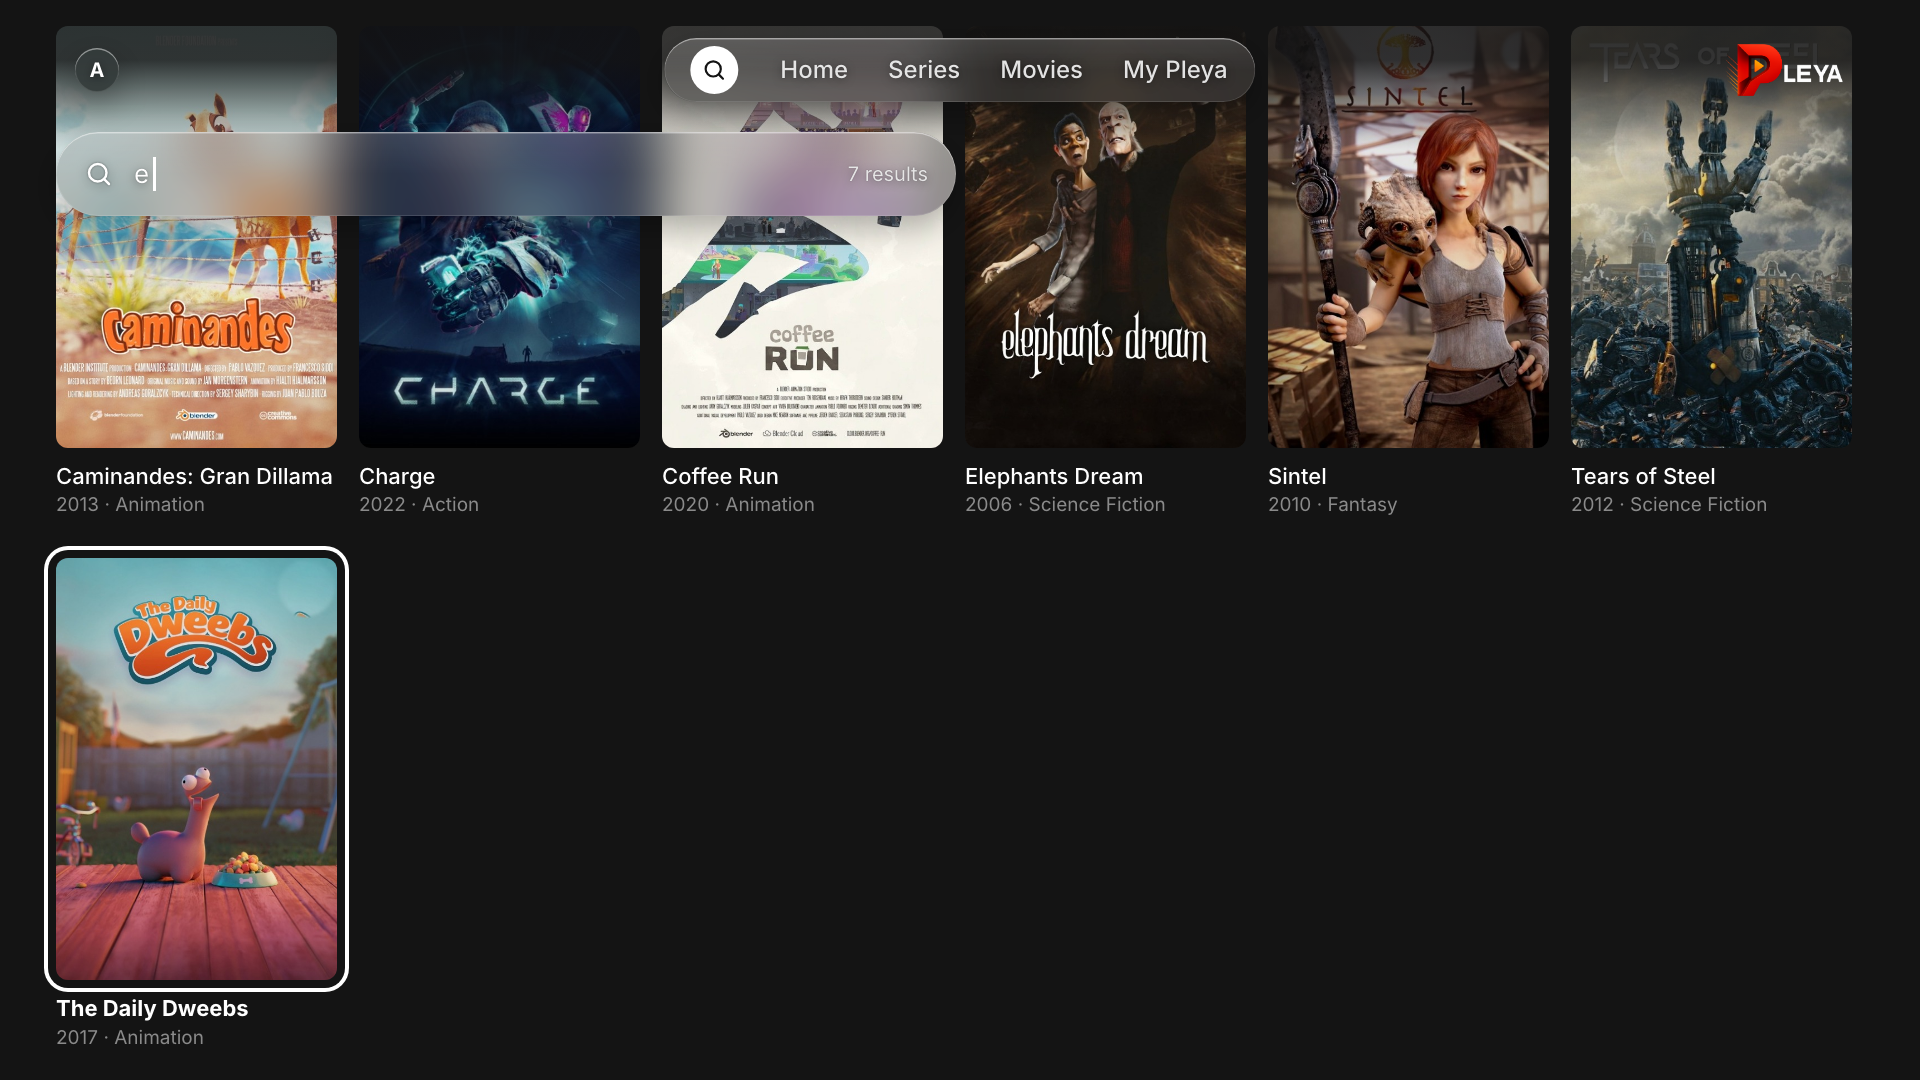
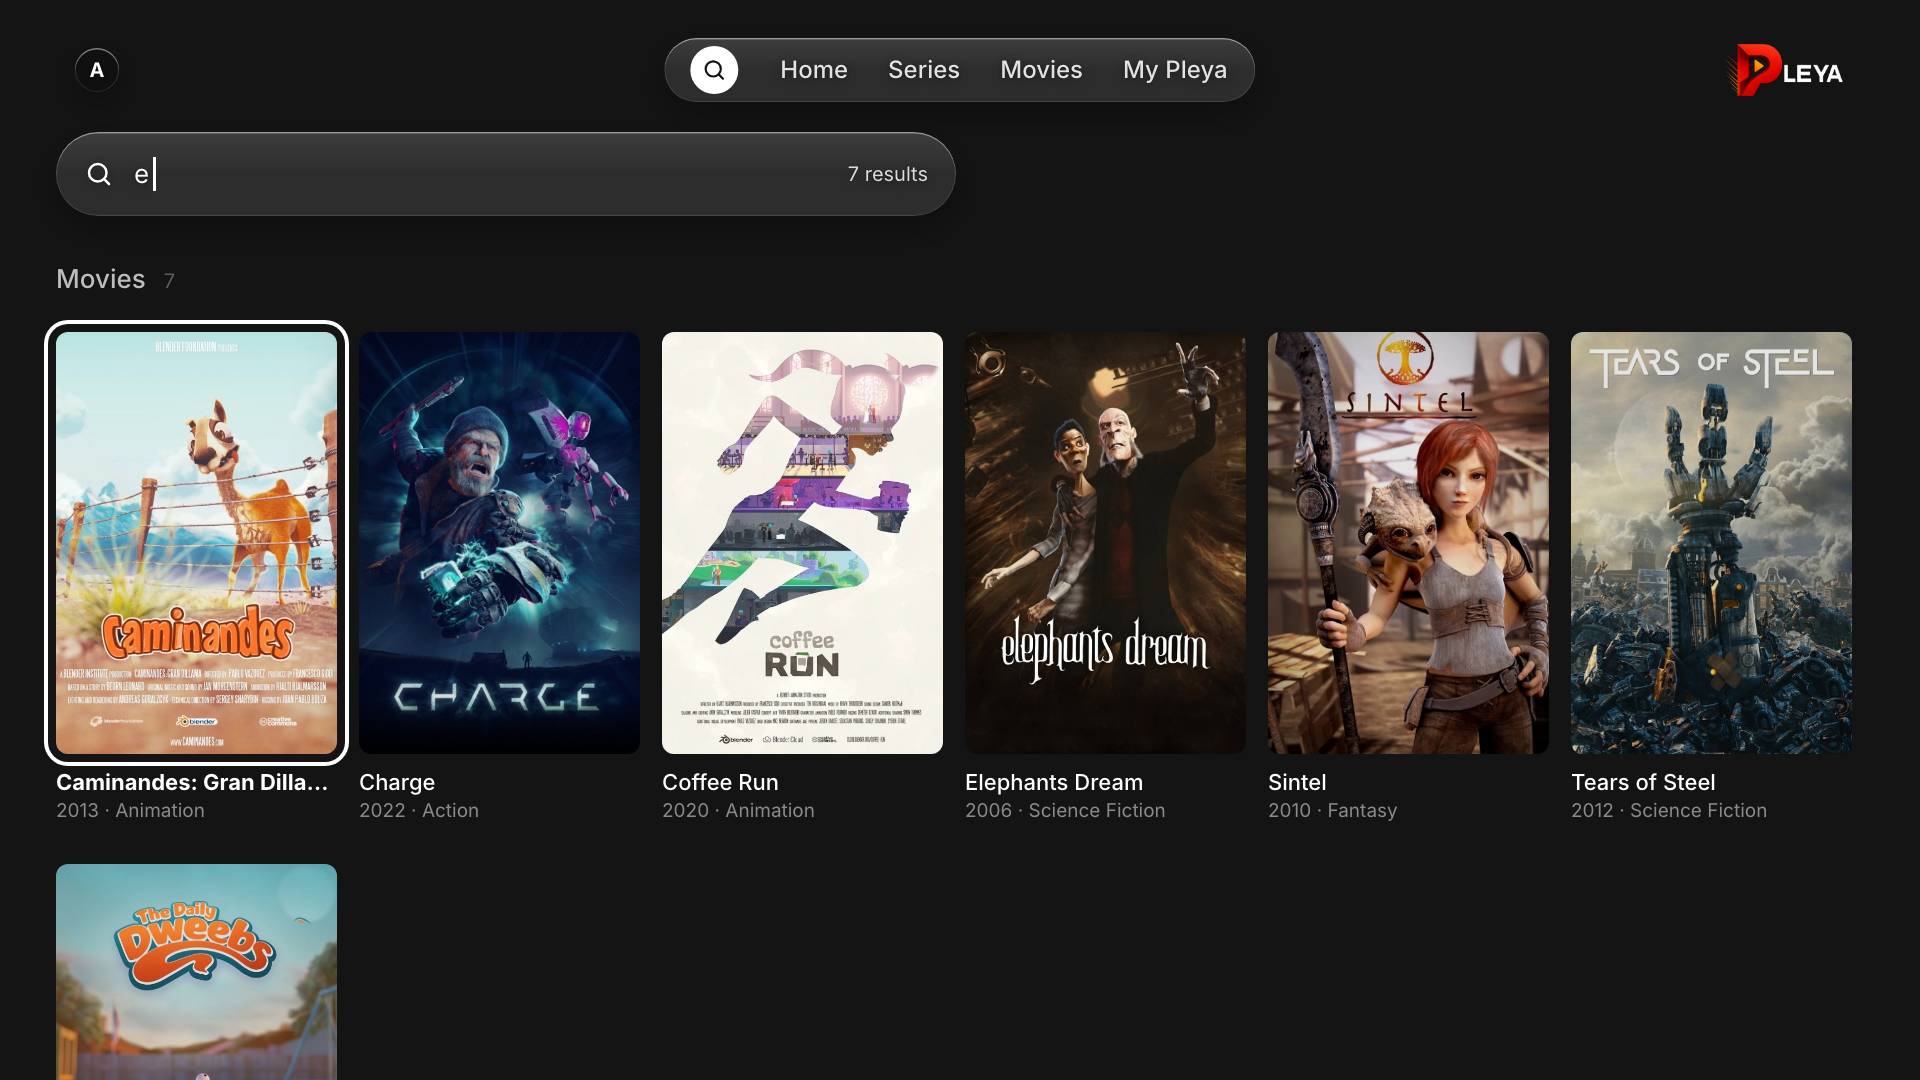
design: Liquid Glass goedgekeurd (DEC-122), zoekscherm in ruststand, contrast als eis

diff --git a/docs/assets/tvos-unified/src/pages/LG-06-zoeken.html b/docs/assets/tvos-unified/src/pages/LG-06-zoeken.html
@@ -1,7 +1,8 @@
 <link rel="stylesheet" href="../../../liquid-glass/src/tv-glass.css">
 <style>
-/* mockup 36 B (resultaten), een stap naar beneden gescrold: de eerste rij schuift onder
-   de topnav en de zoekpil door, zodat het glas iets heeft om te tonen */
+/* mockup 36 B (resultaten) in ruststand: de zoekpil onder de topnav, de resultaten
+   eronder. Het glas ligt hier op de donkere achtergrond; pas bij scrollen schuiven
+   posters eronderdoor. */
 .edge { position: absolute; left: 0; right: 0; top: 0; height: 150px; background: linear-gradient(180deg, rgba(20,20,20,.85) 40%, rgba(20,20,20,0)); z-index: 1; }
 .topnav { z-index: 2; }
 .page { padding: 0 var(--grid-inset); }
@@ -10,7 +11,7 @@
 .sf .q { font-size: 26px; color: var(--ink); }
 .sf .caret { width: 3px; height: 34px; background: var(--ink); margin-left: -16px; }
 .sf .n { margin-left: auto; font-size: 20px; color: rgba(255,255,255,.85); }
-.scroll { position: absolute; left: var(--grid-inset); top: -44px; }
+.scroll { position: absolute; left: var(--grid-inset); top: 262px; }
 .topnav .cluster.tvglass .search.on { width: 48px; height: 48px; border-radius: 999px; background: var(--ink); color: var(--bg); justify-content: center; align-items: center; margin-right: 22px; filter: none; }
 .topnav .cluster.tvglass .search.on .ic { filter: none; }
 .group-label { display: flex; align-items: baseline; gap: 18px; margin: 0 0 var(--focus-headroom); }
@@ -30,12 +31,12 @@
 <div class="scroll">
   <div class="group-label">Movies<span class="n">7</span></div>
   <div class="grid6">
-    <div class="card"><div class="art"><img src="{{art:caminandes-poster}}"></div><div class="t">Caminandes: Gran Dillama</div><div class="s">2013 · Animation</div></div>
+    <div class="card"><div class="art focus"><img src="{{art:caminandes-poster}}"></div><div class="t" style="font-weight:700">Caminandes: Gran Dillama</div><div class="s">2013 · Animation</div></div>
     <div class="card"><div class="art"><img src="{{art:charge-poster}}"></div><div class="t">Charge</div><div class="s">2022 · Action</div></div>
     <div class="card"><div class="art"><img src="{{art:coffeerun-poster}}"></div><div class="t">Coffee Run</div><div class="s">2020 · Animation</div></div>
     <div class="card"><div class="art"><img src="{{art:elephants-poster}}"></div><div class="t">Elephants Dream</div><div class="s">2006 · Science Fiction</div></div>
     <div class="card"><div class="art"><img src="{{art:sintel-poster}}"></div><div class="t">Sintel</div><div class="s">2010 · Fantasy</div></div>
     <div class="card"><div class="art"><img src="{{art:tears-poster}}"></div><div class="t">Tears of Steel</div><div class="s">2012 · Science Fiction</div></div>
-    <div class="card"><div class="art focus"><img src="{{art:dweebs-poster}}"></div><div class="t" style="font-weight:700">The Daily Dweebs</div><div class="s">2017 · Animation</div></div>
+    <div class="card"><div class="art"><img src="{{art:dweebs-poster}}"></div><div class="t">The Daily Dweebs</div><div class="s">2017 · Animation</div></div>
   </div>
 </div>

diff --git a/docs/liquid-glass-mockups-2026-09.md b/docs/liquid-glass-mockups-2026-09.md
@@ -1,8 +1,8 @@
 # Liquid Glass-mockups, september 2026
 
-**Status: voorstel.** Deze set laat zien hoe Pleya eruitziet als de oppervlakken Liquid Glass
-worden, op iPhone en Apple TV. Er is niets over besloten; een DEC-nummer volgt pas bij
-goedkeuring. Layout, typografie, kleuren en maten komen uit de iOS-northstar
+**Status: goedgekeurd op 24 september 2026 ([DEC-122](DECISIONS.md#dec-122)).** Deze set laat
+zien hoe Pleya eruitziet als de oppervlakken Liquid Glass worden, op iPhone en Apple TV. Michel
+keurde de richting goed met één eis: goed contrast, zie de sectie Contrast hieronder. Layout, typografie, kleuren en maten komen uit de iOS-northstar
 (`docs/assets/ios-unified/northstar/`) en de goedgekeurde tvOS-mockups 30, 33 en 36. Alleen
 tabbalk, knoppen, zoekveld en spelerbediening zijn veranderd.
 
@@ -18,7 +18,7 @@ demoserver, geknipt uit de App Store-screenshots van 24 september 2026.
 | `LG-03-speler.png` | 2622×1206 | iPhone speler liggend. Terugspoelen, pauze en vooruitspoelen zijn glazen cirkels, tijdlijn en werkbalk zitten in één glazen plaat, rechtsboven een glazen capsule met cast, AirPlay en het menu. Lichte scène onder het glas. |
 | `LG-04-home.png` | 1920×1080 | Apple TV Home. De topbalk is een capsule van nepglas over de hero, focus op Home (witte pil, licht vergroot). |
 | `LG-05-spelerpaneel.png` | 1920×1080 | Apple TV spelerbalk, stand I van mockup 33 (bediening zichtbaar). Tijdlijn en knoppen staan op één nepglasplaat boven een lichte scène. |
-| `LG-06-zoeken.png` | 1920×1080 | Apple TV zoeken, mockup 36 B. De zoekpil is nepglas; de resultaten zijn een stuk omhoog gescrold zodat de lichte posters van Caminandes en Coffee Run onder pil en topbalk liggen. |
+| `LG-06-zoeken.png` | 1920×1080 | Apple TV zoeken, mockup 36 B. De zoekpil is nepglas, in ruststand: onder de topbalk, met de resultaten eronder en de focus op de eerste kaart. Pas bij scrollen schuiven posters onder pil en topbalk door. |
 | `LG-07-iphone-vergelijking.png` | 2593×2826 | Links Home van vandaag, rechts LG-01. |
 | `LG-08-appletv-vergelijking.png` | 3960×1210 | Links Home van vandaag, rechts LG-04. |
 
@@ -38,6 +38,21 @@ Op Apple TV bestaat dat pakket niet, dus daar is het glas een `BackdropFilter`: 
 verzadiging, iets dimmen, een witte tint en een lichtlijn bovenlangs. Geen rand die breekt. In
 LG-04 en LG-06 is het verschil met een donkere balk goed te zien, in LG-05 minder, omdat de plaat
 daar groot is en de scène achter de knoppen al rustig is.
+
+## Contrast
+
+Glas mag de leesbaarheid niet kosten. Dit is een eis bij de goedkeuring, geen wens.
+
+- Tekst en iconen op glas halen minstens 4,5:1 tegen wat eronder ligt, gemeten op de lichtste
+  scène die daar kan staan (Big Buck Bunny, Coffee Run). Wit op glas krijgt daarom altijd de
+  tekstschaduw uit de recepten hierboven; zonder schaduw zakt wit op de lichte Bunny-scène onder 3:1.
+- Het glas dempt wat erdoor schemert (`--lg-dim`) en zet een lichte donkere tint in de plaat zodra
+  de achtergrond licht is. In Flutter is dat een luminantiemeting van het beeld onder de plaat, of
+  een vaste tint van 22 tot 28 procent zwart als meten te duur is.
+- De focusring op Apple TV blijft wit met de bestaande ring-gap; op een witte pil (Home in LG-04)
+  vervalt de ring en telt de schaal plus schaduw als focus. Dat is de enige plek waar dat mag.
+- Het rode accent (voortgang, actieve tab) blijft dekkend; het gaat nooit door het glas heen.
+- Controle: elk scherm met glas krijgt in Pleya Verify een contrastmeting op de lichtste fixture.
 
 ## De CSS-recepten
 

diff --git a/docs/DECISIONS.md b/docs/DECISIONS.md
@@ -2871,3 +2871,28 @@ MCP-tests en docs die hem als voorbeeld noemen gaan naar het nieuwe scenario.
 
 **Consequences:** De false-PASS-matrix van DEC-081 blijft geldig; die hangt aan de runner, niet aan
 het scenario. Een nieuwe sabotageronde draait tegen de `active`-state van de navigatiepillen.
+
+## DEC-122: Liquid Glass wordt de oppervlaktestijl op iPhone en Apple TV
+
+**Date:** 2026-09-24
+**Status:** accepted
+
+**Context:** Apple's Liquid Glass is de systeemstijl van iOS 26 en tvOS 26. Flutter tekent hem niet
+zelf (flutter/flutter#170310). Het pakket `liquid_glass_renderer` levert op Impeller echt glas met
+breking; op tvOS bestaat dat niet en is alleen blur met tint en lichtlijn haalbaar. De acht
+mockups in `docs/assets/liquid-glass/mockups-2026-09-24/` tonen beide gradaties, met de layout van
+de iOS-northstar (DEC-090) en de goedgekeurde tvOS-mockups 30, 33 en 36.
+
+**Decision:** De richting is goedgekeurd. Tabbalk, zoekveld, knoppen en spelerbediening worden
+glas: echt glas op iPhone via `liquid_glass_renderer`, nepglas (BackdropFilter met tint en
+lichtlijn) op Apple TV en als terugval op Skia. De twee layoutwijzigingen in LG-02 (hero over de
+volle breedte achter de statusbalk, kijklijst als ronde knop naast Download) horen bij de
+goedkeuring. LG-06 geldt in ruststand: zoekpil onder de topbalk, resultaten eronder. Eis bij de
+goedkeuring: goed contrast, uitgewerkt in de sectie Contrast van
+[liquid-glass-mockups-2026-09.md](liquid-glass-mockups-2026-09.md); tekst op glas haalt 4,5:1 op
+de lichtste scène.
+
+**Consequences:** De bouw begint met een proefversie achter een instelling (tabbalk en speler op
+iPhone), met een toesteltest op prestaties voordat de rest van de app volgt. De iPad houdt zijn
+presentatie tot een eigen northstar bestaat (DEC-103). DEC-121 is op `feat/unified-desktop-ipad`
+in gebruik; daarom krijgt dit besluit nummer 122.
